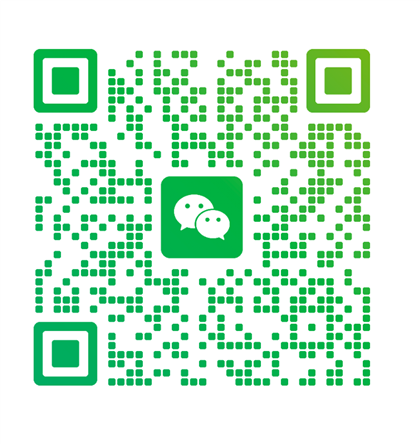
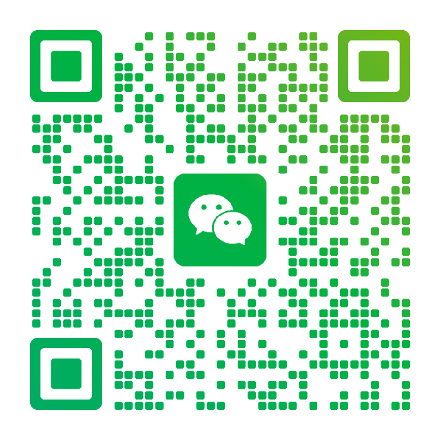
fix: 二维码改为正方形 —— 裁出 813x813 内容区后等比留白
- 原素材 1014x1071 左右留白不等（左80/右121/上117/下141），内容区实为 813x813
- 重新裁切 + 30px 等边留白 + 最近邻缩放到 440x440（97KB，1:1）
- 修 .qr-box img 缺 height:auto 导致的纵向拉伸（width 属性被 CSS 覆盖而 height 未覆盖）
- 全局 img 补 height:auto，img 的 width/height 属性改为 440x440

diff --git a/index.html b/index.html
@@ -41,7 +41,7 @@
     line-height:1.75; -webkit-font-smoothing:antialiased;
   }
   a{color:inherit}
-  img{max-width:100%}
+  img{max-width:100%; height:auto}
   .wrap{max-width:var(--max); margin:0 auto; padding:0 clamp(18px,4vw,40px)}
 
   /* ---------- nav ---------- */
@@ -223,7 +223,11 @@
     background:var(--paper-2); border:1px solid var(--line); border-radius:var(--radius);
     padding:24px; text-align:center;
   }
-  .qr-box img{width:100%; max-width:220px; border-radius:10px; display:block; margin:0 auto 14px}
+  .qr-box img{
+    width:100%; max-width:220px; height:auto; aspect-ratio:1/1;
+    border-radius:10px; display:block; margin:0 auto 14px;
+    object-fit:contain;
+  }
   .qr-box b{display:block; font-size:15px; margin-bottom:4px}
   .qr-box span{font-size:13px; color:var(--ink-soft)}
 
@@ -508,7 +512,7 @@
         </ul>
       </div>
       <aside class="qr-box">
-        <img src="assets/qr.png" alt="瑞研达生物销售微信二维码" width="420" height="444">
+        <img src="assets/qr.png" alt="瑞研达生物销售微信二维码" width="440" height="440">
         <b>微信扫码</b>
         <span>获取方案与报价</span>
       </aside>
